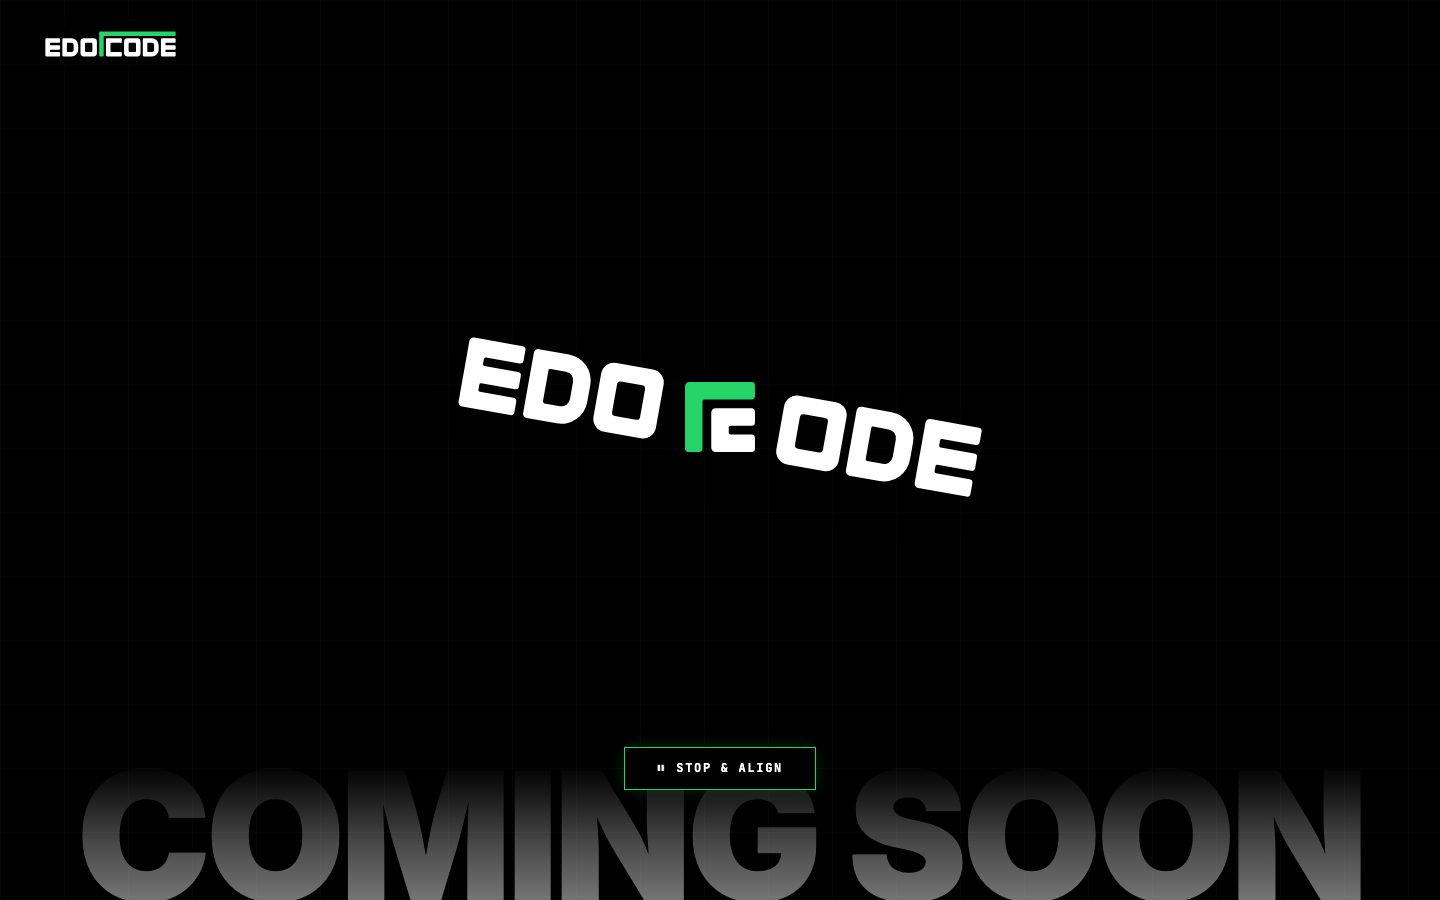
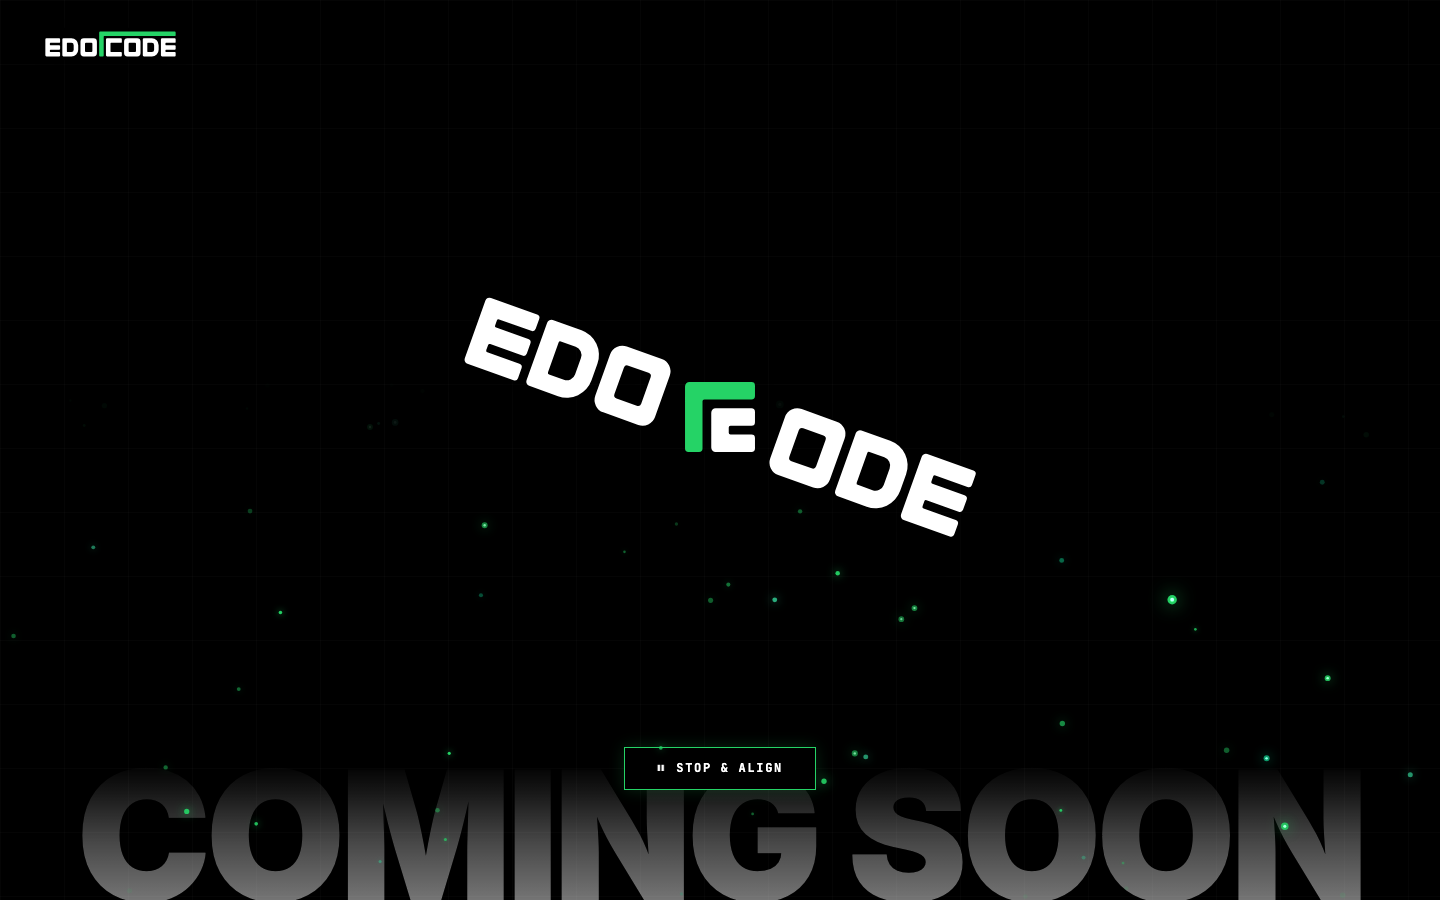
feat: add 4K gaming-style rising green gas particles from ground fading at 60% height

Changed region(s): [[0.5312, 0.4356, 0.6875, 0.5911], [0.3125, 0.3422, 0.4688, 0.4978]]

diff --git a/index.html b/index.html
@@ -49,14 +49,14 @@
       z-index: 1;
     }
 
-    /* Particle canvas for sparks */
+    /* Particle canvas for 4K game-style rising green gas & sparks */
     #particles-canvas {
       position: fixed;
       inset: 0;
       width: 100%;
       height: 100%;
       pointer-events: none;
-      z-index: 2;
+      z-index: 6;
     }
 
     /* Top Brand Bar: Logo in top-left, top-right completely clean */
@@ -514,14 +514,69 @@
       whirGain.gain.setTargetAtTime(targetVol, audioCtx.currentTime, 0.1);
     }
 
-    // --- Particle Spark System ---
+    // --- 4K Game VFX: Rising Green Atmospheric Gas Particles & Sparks ---
     const canvas = document.getElementById('particles-canvas');
     const ctx = canvas.getContext('2d');
-    let particles = [];
+    const sparks = [];
+    const gasParticles = [];
+    const GAS_COUNT = 65;
+
+    function createGasParticle(initialSpread = false) {
+      const h = window.innerHeight;
+      const w = window.innerWidth;
+
+      // Float upwards from ground (h) to 60% up (reaching ceiling at h * 0.40)
+      const groundY = h + Math.random() * 30;
+      const ceilingY = h * 0.40; // 60% rise from ground
+
+      const y = initialSpread
+        ? groundY - Math.random() * (groundY - ceilingY)
+        : groundY;
+
+      // Varied radius: fine ambient vapor (1.2px) to luminous gas embers (5.2px)
+      const rSeed = Math.random();
+      const radius = rSeed > 0.85 
+        ? Math.random() * 2.2 + 3.0   // 3.0 - 5.2px hero embers
+        : Math.random() * 1.8 + 1.2;  // 1.2 - 3.0px atmospheric vapor
+
+      return {
+        baseX: Math.random() * w,
+        x: 0,
+        y: y,
+        groundY: groundY,
+        ceilingY: ceilingY,
+        // Vertical velocity: varied float speeds (0.35 to 1.15 px/frame)
+        vy: Math.random() * 0.75 + 0.38,
+        // Gaseous fluid swaying
+        swayAmp: Math.random() * 28 + 12,
+        swayFreq: Math.random() * 1.6 + 0.7,
+        swayPhase: Math.random() * Math.PI * 2,
+        radius: radius,
+        baseAlpha: Math.random() * 0.45 + 0.35,
+        pulseSpeed: Math.random() * 2.5 + 1.0,
+        // Color tint: 75% official brand green, 15% electric mint, 10% emerald
+        colorType: Math.random() > 0.25 ? 0 : (Math.random() > 0.4 ? 1 : 2)
+      };
+    }
+
+    function initGasParticles() {
+      gasParticles.length = 0;
+      for (let i = 0; i < GAS_COUNT; i++) {
+        gasParticles.push(createGasParticle(true));
+      }
+    }
 
     function resizeCanvas() {
-      canvas.width = window.innerWidth;
-      canvas.height = window.innerHeight;
+      const dpr = Math.min(window.devicePixelRatio || 1, 2);
+      canvas.width = window.innerWidth * dpr;
+      canvas.height = window.innerHeight * dpr;
+      if (ctx.resetTransform) {
+        ctx.resetTransform();
+      } else {
+        ctx.setTransform(1, 0, 0, 1, 0, 0);
+      }
+      ctx.scale(dpr, dpr);
+      initGasParticles();
     }
     window.addEventListener('resize', resizeCanvas);
     resizeCanvas();
@@ -530,7 +585,7 @@
       for (let i = 0; i < count; i++) {
         const a = Math.random() * Math.PI * 2;
         const velocity = (Math.random() * 5 + 2) * speedMult;
-        particles.push({
+        sparks.push({
           x: x,
           y: y,
           vx: Math.cos(a) * velocity,
@@ -543,17 +598,95 @@
       }
     }
 
-    function updateParticles() {
-      ctx.clearRect(0, 0, canvas.width, canvas.height);
-      for (let i = particles.length - 1; i >= 0; i--) {
-        const p = particles[i];
+    function updateParticles(now) {
+      const w = window.innerWidth;
+      const h = window.innerHeight;
+      const t = now ? now / 1000 : performance.now() / 1000;
+
+      ctx.clearRect(0, 0, w, h);
+
+      // 1. Draw Rising Green Gas Particles (4K Game Atmospheric VFX)
+      ctx.save();
+      ctx.globalCompositeOperation = 'lighter'; // Additive blending for luminous energy glow
+
+      for (let i = 0; i < gasParticles.length; i++) {
+        const p = gasParticles[i];
+
+        // Lift upwards like hot glowing gas
+        p.y -= p.vy;
+
+        // Sinusoidal organic fluid drift
+        p.x = p.baseX + Math.sin(t * p.swayFreq + p.swayPhase) * p.swayAmp;
+
+        // Progress from ground (0.0) to ceiling at 60% height (1.0)
+        const totalDist = p.groundY - p.ceilingY;
+        const currentDist = p.groundY - p.y;
+        const progress = Math.min(1.0, Math.max(0, currentDist / totalDist));
+
+        // Smooth fade curve:
+        // - In bottom 15%: fade in from 0 to full alpha
+        // - Middle 15%-65%: sustain with subtle organic breathing pulse
+        // - Upper 65%-100%: smooth fade-out to 0 at exactly 60% height
+        let alpha = p.baseAlpha;
+        if (progress <= 0.15) {
+          alpha = p.baseAlpha * (progress / 0.15);
+        } else if (progress > 0.65) {
+          const fadeProgress = (1.0 - progress) / 0.35;
+          alpha = p.baseAlpha * Math.max(0, fadeProgress * fadeProgress);
+        } else {
+          alpha = p.baseAlpha * (1 + 0.14 * Math.sin(t * p.pulseSpeed));
+        }
+
+        // If reached 60% ceiling or faded out, respawn gracefully at ground
+        if (progress >= 1.0 || p.y <= p.ceilingY) {
+          Object.assign(p, createGasParticle(false));
+          continue;
+        }
+
+        if (alpha <= 0.01) continue;
+
+        // Color selection
+        let rColor, gColor, bColor;
+        if (p.colorType === 0) {
+          // Official EDOCODE Neon Green #25D366
+          rColor = 37; gColor = 211; bColor = 102;
+        } else if (p.colorType === 1) {
+          // Electric Mint #34D399
+          rColor = 52; gColor = 211; bColor = 153;
+        } else {
+          // Deep Emerald Jade #10B981
+          rColor = 16; gColor = 185; bColor = 129;
+        }
+
+        ctx.shadowColor = `rgba(${rColor}, ${gColor}, ${bColor}, ${Math.min(1, alpha * 1.2)})`;
+        ctx.shadowBlur = p.radius * 3.8;
+        ctx.fillStyle = `rgba(${rColor}, ${gColor}, ${bColor}, ${alpha.toFixed(3)})`;
+
+        ctx.beginPath();
+        ctx.arc(p.x, p.y, p.radius, 0, Math.PI * 2);
+        ctx.fill();
+
+        // High-end inner core for larger embers
+        if (p.radius > 2.8) {
+          ctx.shadowBlur = 0;
+          ctx.fillStyle = `rgba(255, 255, 255, ${(alpha * 0.7).toFixed(3)})`;
+          ctx.beginPath();
+          ctx.arc(p.x, p.y, p.radius * 0.4, 0, Math.PI * 2);
+          ctx.fill();
+        }
+      }
+      ctx.restore();
+
+      // 2. Draw Click Sparks
+      for (let i = sparks.length - 1; i >= 0; i--) {
+        const p = sparks[i];
         p.x += p.vx;
         p.y += p.vy;
         p.alpha -= p.decay;
         p.size *= 0.96;
 
         if (p.alpha <= 0 || p.size < 0.4) {
-          particles.splice(i, 1);
+          sparks.splice(i, 1);
           continue;
         }
 
@@ -706,7 +839,7 @@
       }
 
       updateAudioWhir(currentSpeed);
-      updateParticles();
+      updateParticles(now);
 
       requestAnimationFrame(tick);
     }
